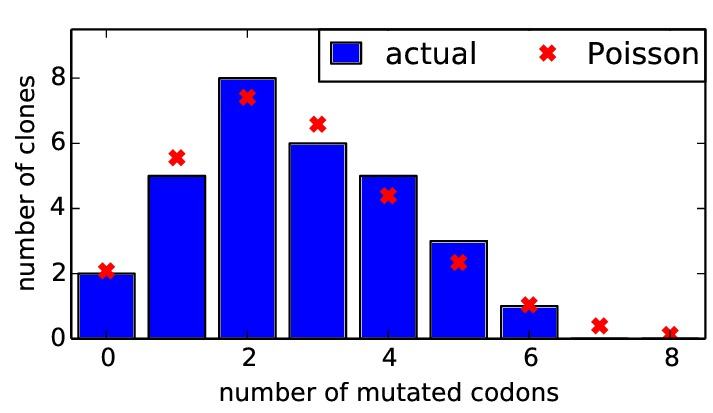
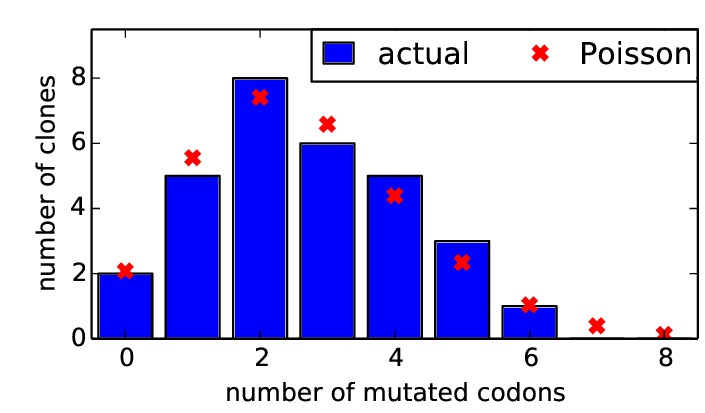
Fixed margins on nmutdist plot

diff --git a/2013Analysis_Influenza_NP_Aichi68/analyze_library.py b/2013Analysis_Influenza_NP_Aichi68/analyze_library.py
@@ -188,8 +188,8 @@ def PlotNMutDist(nmutations, plotfile, title):
     plotfile -> name of the plot file that we create.
     title -> string giving the plot title.
     """
-    pylab.figure(figsize=(4.75, 2.75))
-    (lmargin, rmargin, bmargin, tmargin) = (0.1, 0.01, 0.18, 0.07)
+    pylab.figure(figsize=(4.7, 2.75))
+    (lmargin, rmargin, bmargin, tmargin) = (0.13, 0.01, 0.18, 0.07)
     pylab.axes([lmargin, bmargin, 1.0 - lmargin - rmargin, 1.0 - bmargin - tmargin])
     nseqs = len(nmutations)
     mavg = scipy.mean(nmutations)

diff --git a/analyze_library.py b/analyze_library.py
@@ -188,8 +188,8 @@ def PlotNMutDist(nmutations, plotfile, title):
     plotfile -> name of the plot file that we create.
     title -> string giving the plot title.
     """
-    pylab.figure(figsize=(4.75, 2.75))
-    (lmargin, rmargin, bmargin, tmargin) = (0.1, 0.01, 0.18, 0.07)
+    pylab.figure(figsize=(4.7, 2.75))
+    (lmargin, rmargin, bmargin, tmargin) = (0.13, 0.01, 0.18, 0.07)
     pylab.axes([lmargin, bmargin, 1.0 - lmargin - rmargin, 1.0 - bmargin - tmargin])
     nseqs = len(nmutations)
     mavg = scipy.mean(nmutations)
